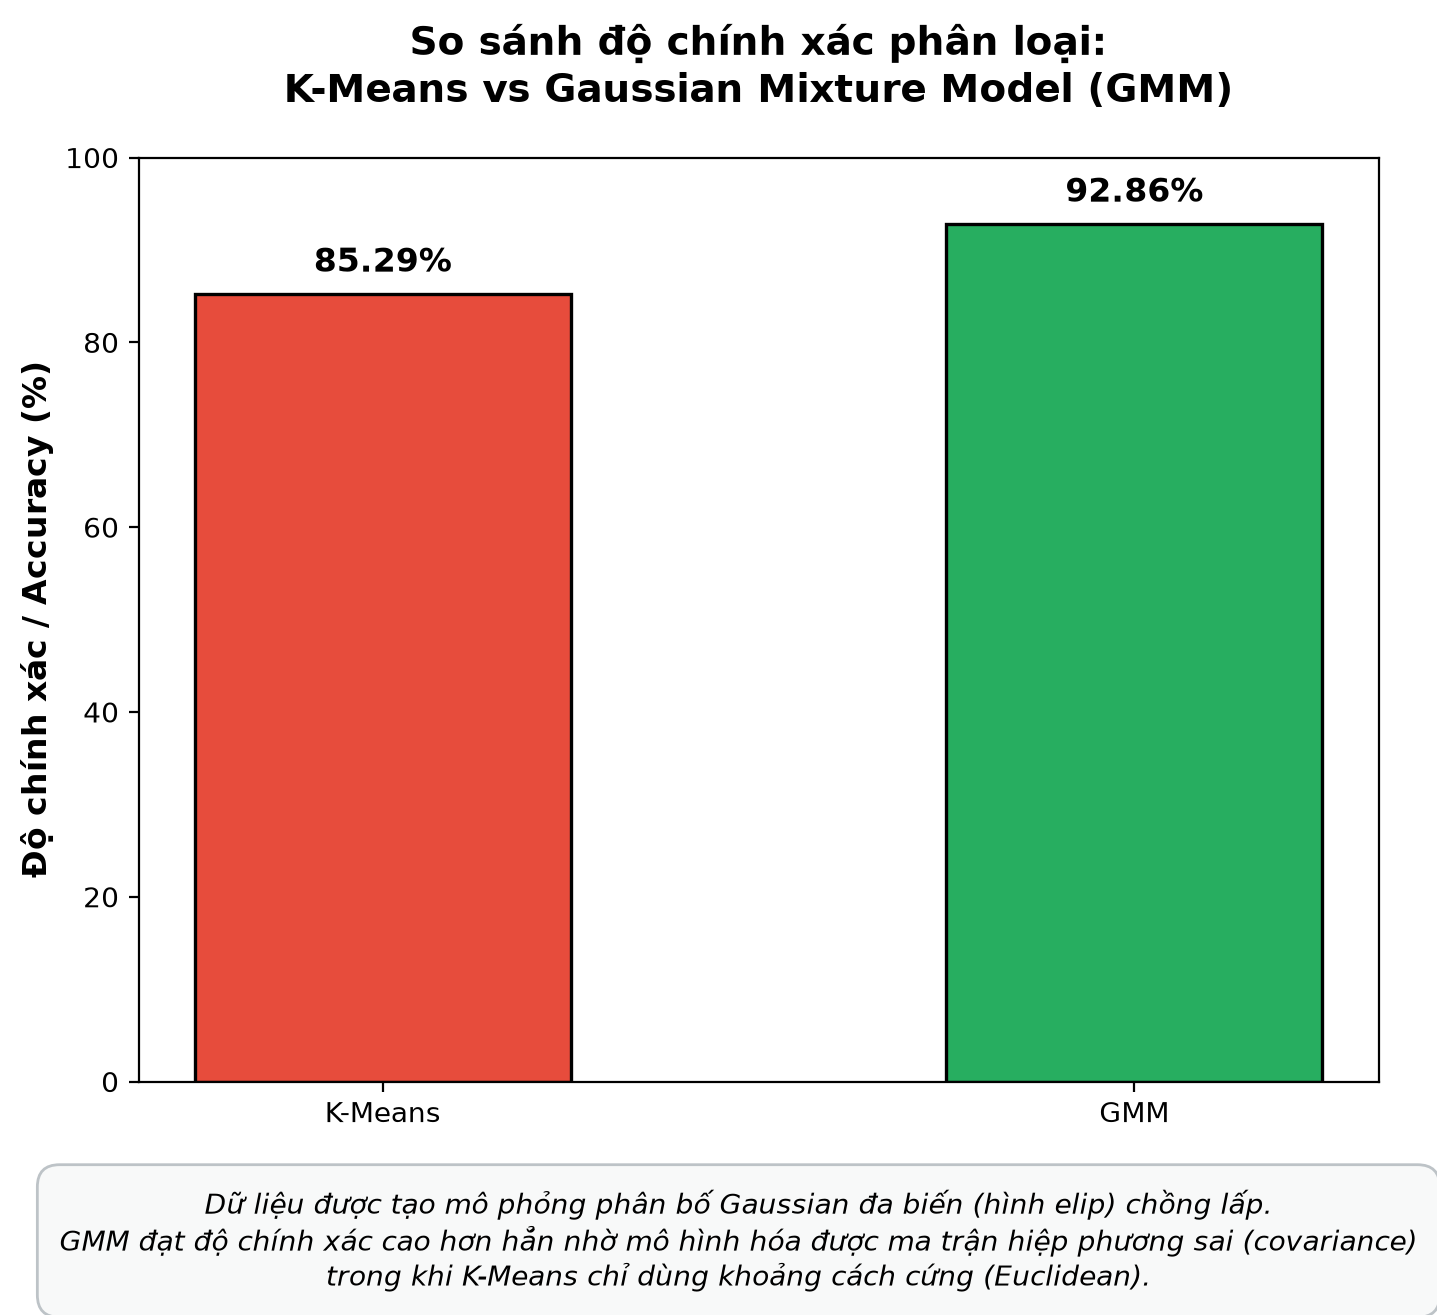
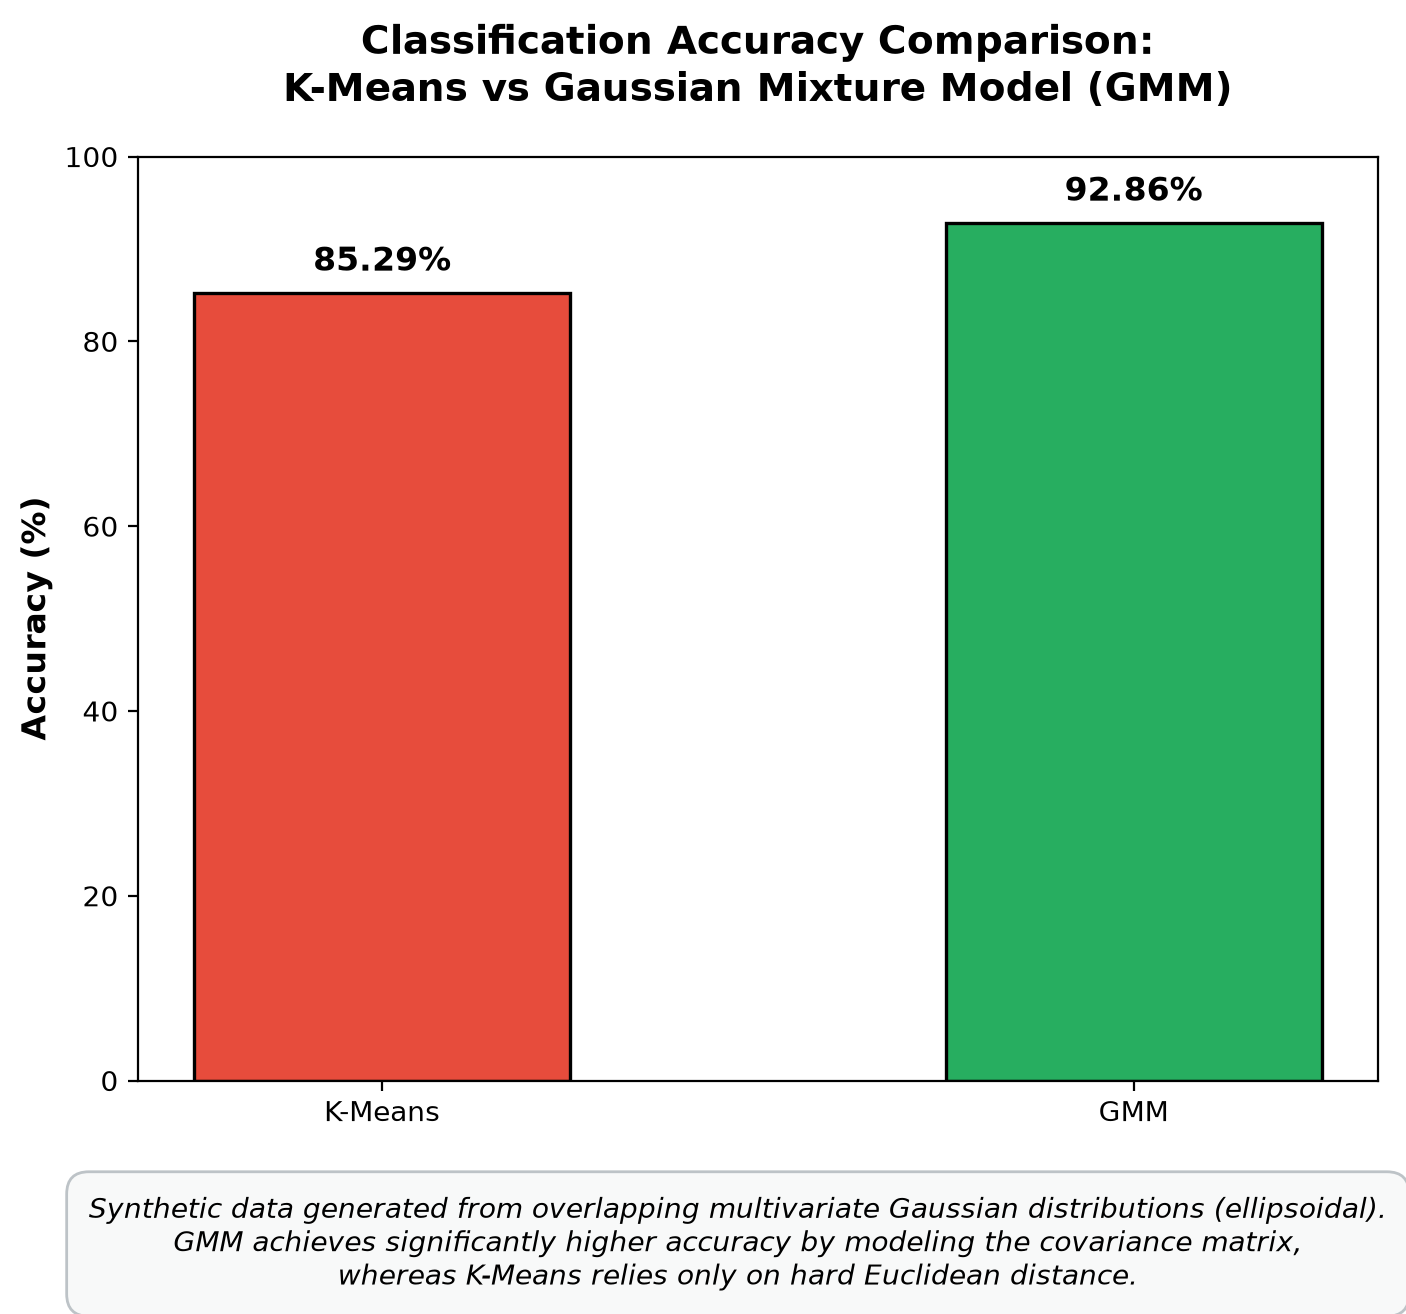
refactor: update labels and captions in accuracy comparison plot for clarity

diff --git a/experiments/plot_accuracy_comparison.py b/experiments/plot_accuracy_comparison.py
@@ -58,8 +58,8 @@ def main():
     
     # Cấu hình hiển thị trục và tiêu đề
     ax.set_ylim(0, 100)
-    ax.set_ylabel('Độ chính xác / Accuracy (%)', fontsize=12, fontweight='bold')
-    ax.set_title('So sánh độ chính xác phân loại:\nK-Means vs Gaussian Mixture Model (GMM)', fontsize=14, fontweight='bold', pad=20)
+    ax.set_ylabel('Accuracy (%)', fontsize=12, fontweight='bold')
+    ax.set_title('Classification Accuracy Comparison:\nK-Means vs Gaussian Mixture Model (GMM)', fontsize=14, fontweight='bold', pad=20)
     
     # Đính kèm phần trăm ngay trên từng cột
     for bar in bars:
@@ -68,7 +68,7 @@ def main():
                 ha='center', va='bottom', fontsize=12, fontweight='bold')
         
     # Chú thích giải thích nguyên nhân
-    caption = "Dữ liệu được tạo mô phỏng phân bố Gaussian đa biến (hình elip) chồng lấp.\nGMM đạt độ chính xác cao hơn hẳn nhờ mô hình hóa được ma trận hiệp phương sai (covariance)\ntrong khi K-Means chỉ dùng khoảng cách cứng (Euclidean)."
+    caption = "Synthetic data generated from overlapping multivariate Gaussian distributions (ellipsoidal).\nGMM achieves significantly higher accuracy by modeling the covariance matrix,\nwhereas K-Means relies only on hard Euclidean distance."
     plt.figtext(0.5, -0.06, caption, ha="center", fontsize=10, style='italic',
                 bbox=dict(facecolor='#F8F9F9', edgecolor='#BDC3C7', boxstyle='round,pad=0.8'))
 
@@ -80,9 +80,9 @@ def main():
     plt.savefig(out_path, dpi=200, bbox_inches='tight')
     plt.close()
     
-    print(f"Đã lưu biểu đồ thành công tại: {out_path}")
-    print(f"Độ chính xác của K-Means: {km_accuracy:.2f}%")
-    print(f"Độ chính xác của GMM:     {gmm_accuracy:.2f}%")
+    print(f"Successfully saved chart to: {out_path}")
+    print(f"K-Means Accuracy: {km_accuracy:.2f}%")
+    print(f"GMM Accuracy:     {gmm_accuracy:.2f}%")
 
 if __name__ == "__main__":
     main()